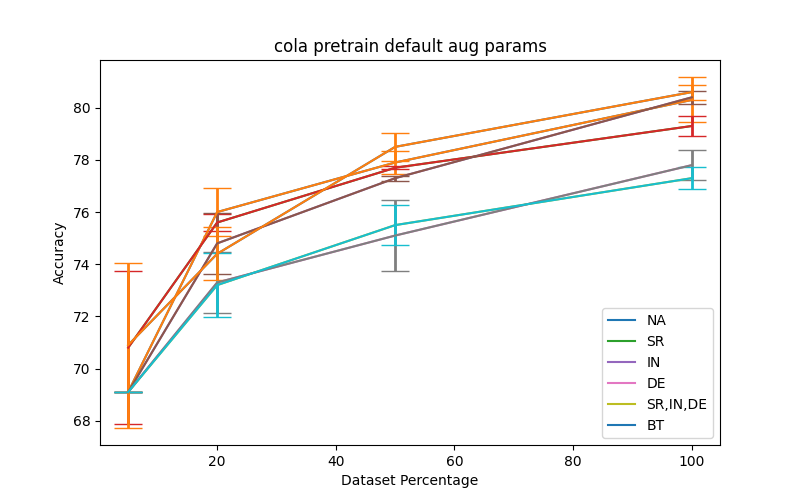
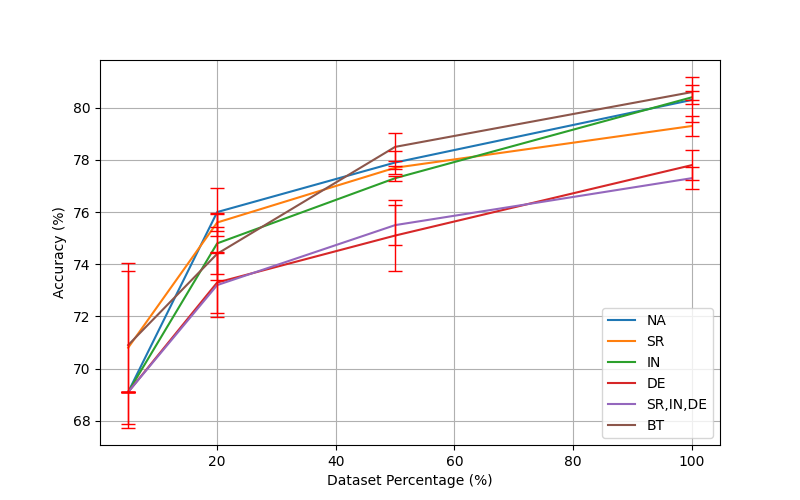
Yes

diff --git a/src/models/data_augmentors.py b/src/models/data_augmentors.py
@@ -415,38 +415,35 @@ class MixUp(Augmentor):
         else:
             
             return None
+        
+    def augment_one_sample_ret_original(self, sentence, attention_mask, label, other_samples):
+        if random.random() < self.augmentation_percentage:
+
+            index = np.random.randint(0, len(other_samples))
+            sentence2, attention_mask2, label2 = other_samples[index]
+            
+            return [(sentence, attention_mask, label), (self.mixup_randomly(sentence, sentence2, attention_mask, attention_mask2, label, label2))]
+        else:
+            
+            return [(sentence, attention_mask, label)]
 
     def generate_pairwise_and_augment(self, sentences, attention_masks, labels):
-        generated_sentences = []
-        generated_attention_masks = []
-        generated_labels = []
+        new_samples = []
 
-        to_generate = int(len(sentences) * self.augmentation_percentage)
-        
-        for i in range(to_generate):
-            choices = np.random.choice(len(sentences), 2, replace = False)
-            sentence1 = sentences[choices[0]]
-            attention_mask1 = attention_masks[choices[0]]
-            label1 = labels[choices[0]]
-            sentence2 = sentences[choices[1]]
-            attention_mask2 = attention_masks[choices[1]]
-            label2 = labels[choices[1]]
-            sentence, attention_mask, label = self.mixup_randomly(sentence1, sentence2, attention_mask1, attention_mask2, label1, label2)
-            generated_sentences.append(sentence)
-            generated_attention_masks.append(attention_mask)
-            generated_labels.append(label)
+        all_samples = zip(sentences, attention_masks, labels)
 
-        if(to_generate > 0):
-            new_sentences = torch.cat([sentences, torch.stack(generated_sentences)])
-            new_attention_masks = torch.cat([attention_masks, torch.stack(generated_attention_masks)])
-            new_labels = torch.cat([labels, torch.stack(generated_labels)])
+        for sample in all_samples:
+            sentence, attention_mask, label = sample
+            new_samples.extend(self.augment_one_sample_ret_original(sentence, attention_mask, label, all_samples))
 
-            indices = torch.randperm(new_sentences.size()[0])
-            new_sentences = new_sentences[indices]
-            new_attention_masks = new_attention_masks[indices]
-            new_labels = new_labels[indices]
+        new_sentences, new_attention_masks, new_labels = zip(*new_samples)
 
-            return new_sentences, new_attention_masks, new_labels
+        sentences = torch.stack(new_sentences)
+        attention_masks = torch.stack(new_attention_masks)
+        labels = torch.stack(new_labels)
+
+        import pdb
+        pdb.set_trace()
 
         return sentences, attention_masks, labels
 
@@ -518,43 +515,39 @@ class CutMix(Augmentor):
         else:
             return None
 
+    def augment_one_sample_ret_original(self, sentence, attention_mask, label, other_samples):
+        if random.random() < self.augmentation_percentage:
+
+            index = np.random.randint(0, len(other_samples))
+            sentence2, attention_mask2, label2 = other_samples[index]
+            
+            return [(sentence, attention_mask, label), (self.cutmix_randomly(sentence, sentence2, attention_mask, attention_mask2, label, label2))]
+        else:
+            
+            return [(sentence, attention_mask, label)]
+
     def generate_pairwise_and_augment(self, sentences, attention_masks, labels):
-        generated_sentences = []
-        generated_attention_masks = []
-        generated_labels = []
+        new_samples = []
 
-        to_generate = int(len(sentences) * self.augmentation_percentage)
-        
-        for i in range(to_generate):
-            choices = np.random.choice(len(sentences), 2, replace = False)
-            sentence1 = sentences[choices[0]]
-            attention_mask1 = attention_masks[choices[0]]
-            label1 = labels[choices[0]]
-            sentence2 = sentences[choices[1]]
-            attention_mask2 = attention_masks[choices[1]]
-            label2 = labels[choices[1]]
-            sentence, attention_mask, label = self.cutmix_randomly(sentence1, sentence2, attention_mask1, attention_mask2, label1, label2)
-            generated_sentences.append(sentence)
-            generated_attention_masks.append(attention_mask)
-            generated_labels.append(label)
+        all_samples = zip(sentences, attention_masks, labels)
 
-        if(to_generate > 0):
+        for sample in all_samples:
+            sentence, attention_mask, label = sample
+            new_samples.extend(self.augment_one_sample_ret_original(sentence, attention_mask, label, all_samples))
 
-            new_sentences = torch.cat([sentences, torch.stack(generated_sentences)])
-            new_attention_masks = torch.cat([attention_masks, torch.stack(generated_attention_masks)])
-            new_labels = torch.cat([labels, torch.stack(generated_labels)])
+        new_sentences, new_attention_masks, new_labels = zip(*new_samples)
 
-            indices = torch.randperm(new_sentences.size()[0])
-            new_sentences = new_sentences[indices]
-            new_attention_masks = new_attention_masks[indices]
-            new_labels = new_labels[indices]
+        sentences = torch.stack(new_sentences)
+        attention_masks = torch.stack(new_attention_masks)
+        labels = torch.stack(new_labels)
 
-            return new_sentences, new_attention_masks, new_labels
+        import pdb
+        pdb.set_trace()
 
         return sentences, attention_masks, labels
 
-    def augment_dataset(self, inputs_embeds, attention_masks = None, labels = None):
-        sentences, attention_masks, labels = self.generate_pairwise_and_augment(inputs_embeds, attention_masks, labels)
+    def augment_dataset(self, inputs, attention_masks = None, labels = None):
+        sentences, attention_masks, labels = self.generate_pairwise_and_augment(inputs, attention_masks, labels)
         return sentences, attention_masks, labels
     
 AUGMENTOR_LIST = [Synonym_Replacer("english"), Back_Translator("en"), Insertor("english"), Deletor(), CutOut(), CutMix(), MixUp()]

diff --git a/src/visualization/visualize.py b/src/visualization/visualize.py
@@ -90,26 +90,27 @@ def plot_saliency_scores(words, saliency_scores, fig_name):
     plt.show()
     
 def plot_results(args):
-    task = args.task
-    if task == "classify" or task == "classify_saliency":
-        task = args.dataset + task.replace("classify", "")
-    pretrain = "pretrain" if args.pretrain else "no_pretrain"
-    default_aug_params = "default_aug_params" if args.use_default_augmentation_params != 0 else "no_default_aug_params"
-    filename = task + "_" + pretrain + "_" + default_aug_params
+    filename = args.filename
     file = filename + ".csv"
     error_file = filename + "_error_bars.csv"
     results = pd.read_csv("reports/data_for_plotting/" + file)
-    error_bars = pd.read_csv("reports/data_for_plotting/" + error_file)
+    try:
+        error_bars = pd.read_csv("reports/data_for_plotting/" + error_file)
+    except:
+        error_bars = None
     first_col = results.columns[0]
     fig = plt.figure(figsize=(8,5))
     for col in results.columns[1:]:
         plt.plot(results[first_col], results[col], label=col)
-        plt.errorbar(results[first_col], results[col], error_bars[col], marker='x', mfc='red',
-         mec='red', ms=0, mew=1, capsize=10, elinewidth=2, capthick=1, markeredgewidth=1)
-    plt.title(filename.replace("_", " "))
-    plt.xlabel('Dataset Percentage')
-    plt.ylabel('Accuracy')
+        
+    for col in results.columns[1:]:
+        if error_bars is not None:
+                plt.errorbar(results[first_col], results[col], error_bars[col],ecolor = 'red', marker='x', mfc='red',
+                mec='red', ms=2, mew=1, capsize=5, elinewidth=1, fmt='none')
+    plt.xlabel(args.xlabel)
+    plt.ylabel(args.ylabel)
     plt.legend()
+    plt.grid()
     plt.savefig("reports/figures/results/" + filename + ".png")
 
 def visualize_augmentor_change_data(args):

diff --git a/src/models/hyper_param_search.py b/src/models/hyper_param_search.py
@@ -334,7 +334,7 @@ def text_classify_search_aug(args):
 def text_classify_search_lr(args):
 
     def objective(trial, args):
-        lr = trial.suggest_float("learning_rate", 4e-5, 1e-2, log=True)
+        lr = trial.suggest_float("learning_rate", 1e-5, 1e-2, log=True)
         data_modules = {"cola": ColaDataModule, "twitter": TwitterDataModule, "babe": BabeDataModule, "ag_news": AGNewsDataModule, "imdb": IMDBDataModule, "trec": TrecDataModule, "dbpedia": DBPediaDataModule}
         
         if args.samples_per_class is not None:

diff --git a/main.py b/main.py
@@ -13,6 +13,10 @@ def main():
     # parser.add_argument("--deterministic", type=bool, default=True)
     parser.add_argument("--visualize", type=int, default=0)
     parser.add_argument("--datapoints", type=int, default=-1)
+    parser.add_argument("--filename", type=str)
+    parser.add_argument("--xlabel", type=str)
+    parser.add_argument("--ylabel", type=str)
+
 
     parser.add_argument("--search", type=int, default=0)
     parser.add_argument("--to_search", type=str, default="aug")
